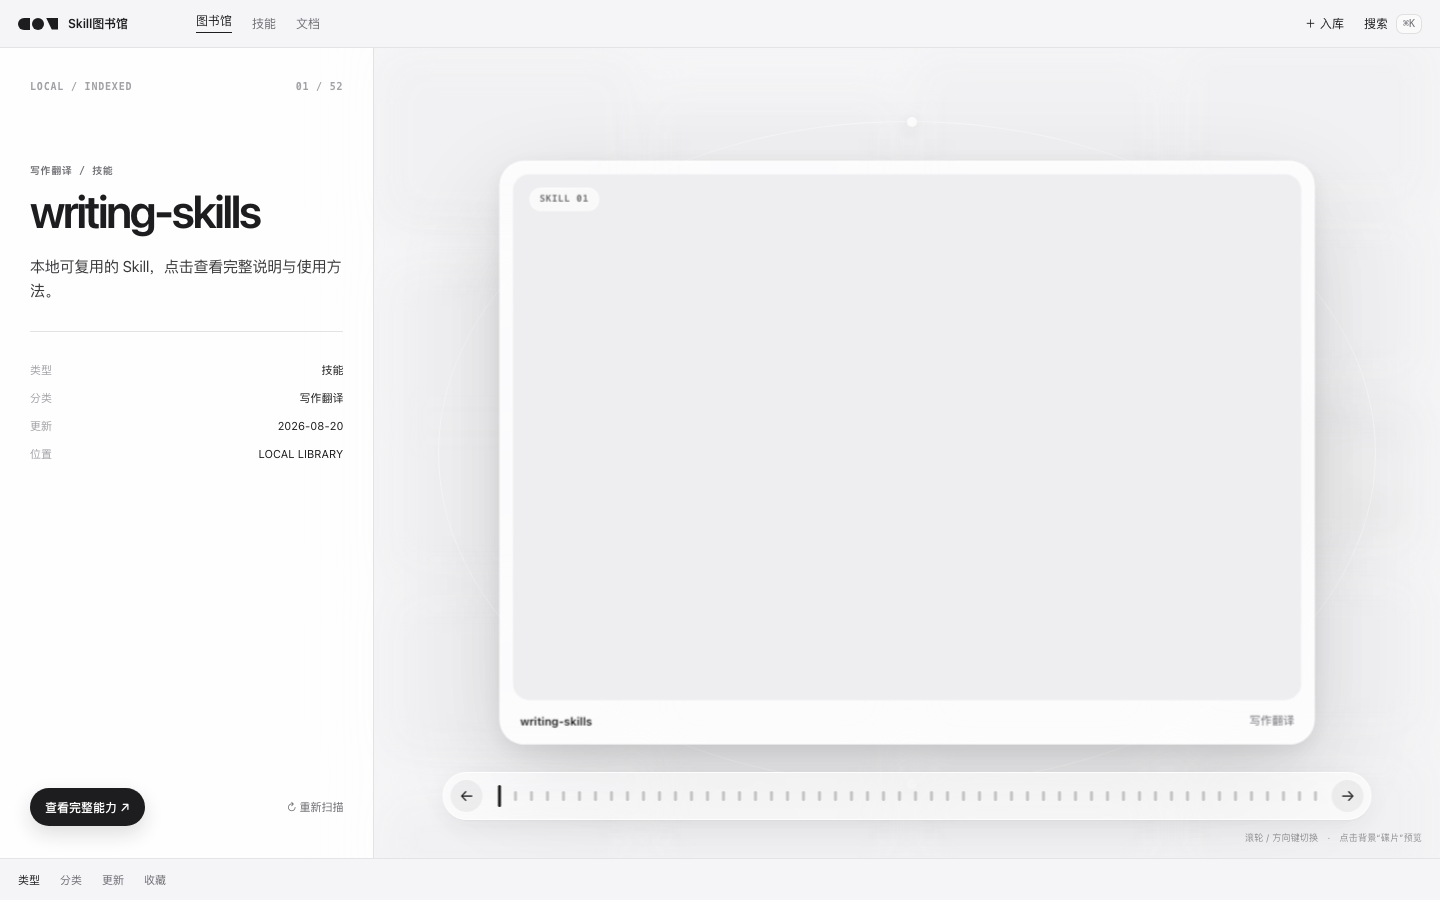
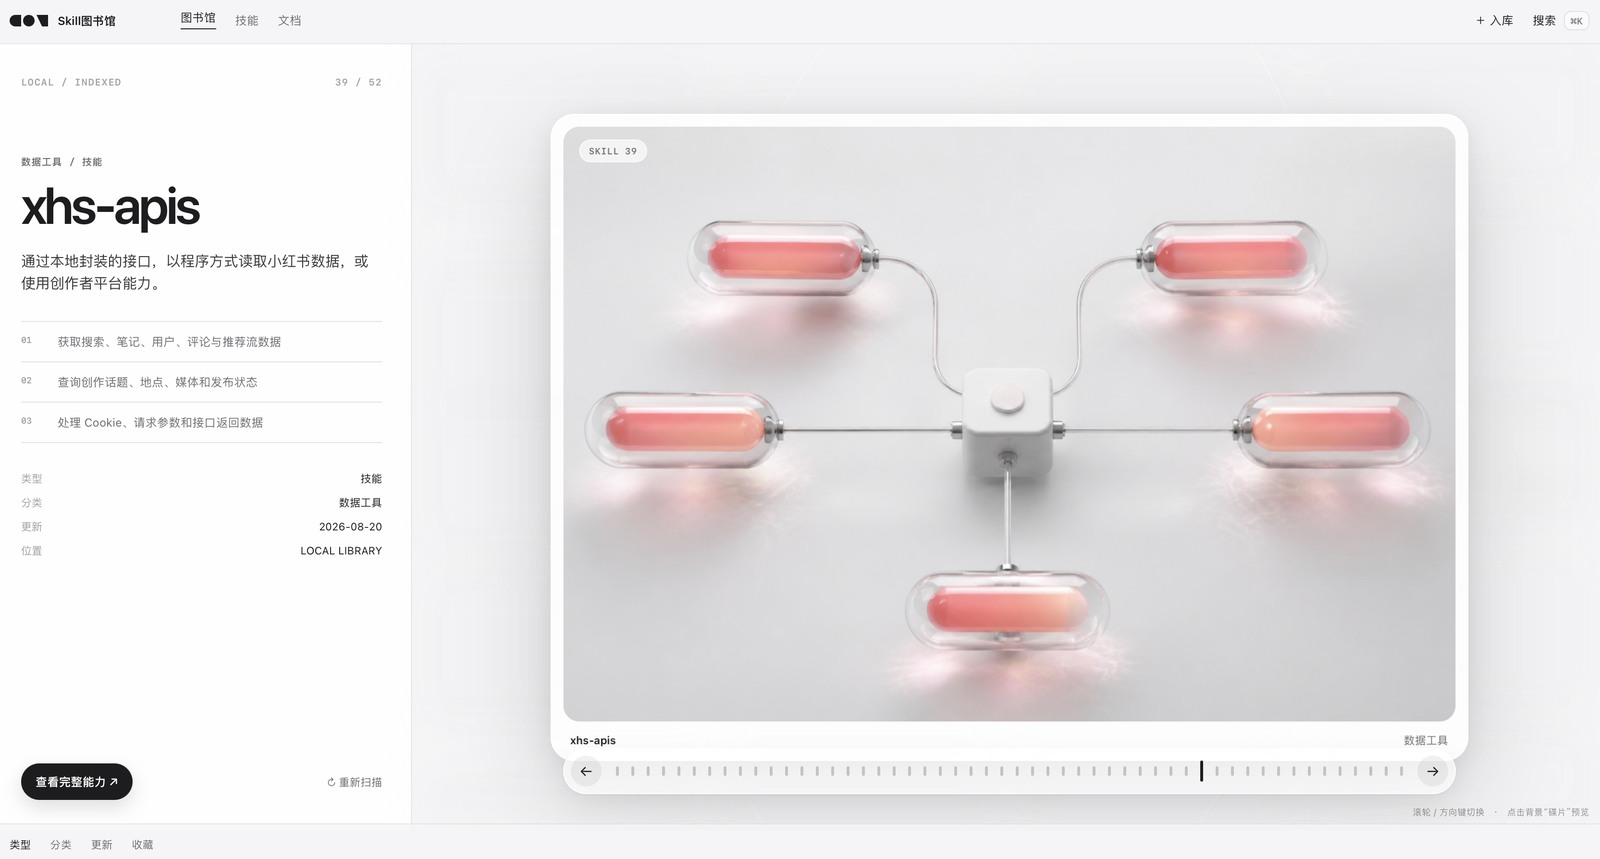
更新界面截图（5张，压缩分辨率）

diff --git a/README.md b/README.md
@@ -13,9 +13,13 @@
 
 ![Orbit 轨道主页](docs/screenshots/01-orbit-home.png)
 
-![Stack 列表视图](docs/screenshots/02-stack-list.png)
+![Orbit 轨道主页（另一视角）](docs/screenshots/02-orbit-home.png)
 
-![详情视图](docs/screenshots/03-detail.png)
+![Stack 列表视图](docs/screenshots/03-stack-list.png)
+
+![详情视图](docs/screenshots/04-detail.png)
+
+![详情视图（另一状态）](docs/screenshots/05-detail.png)
 
 ---
 
